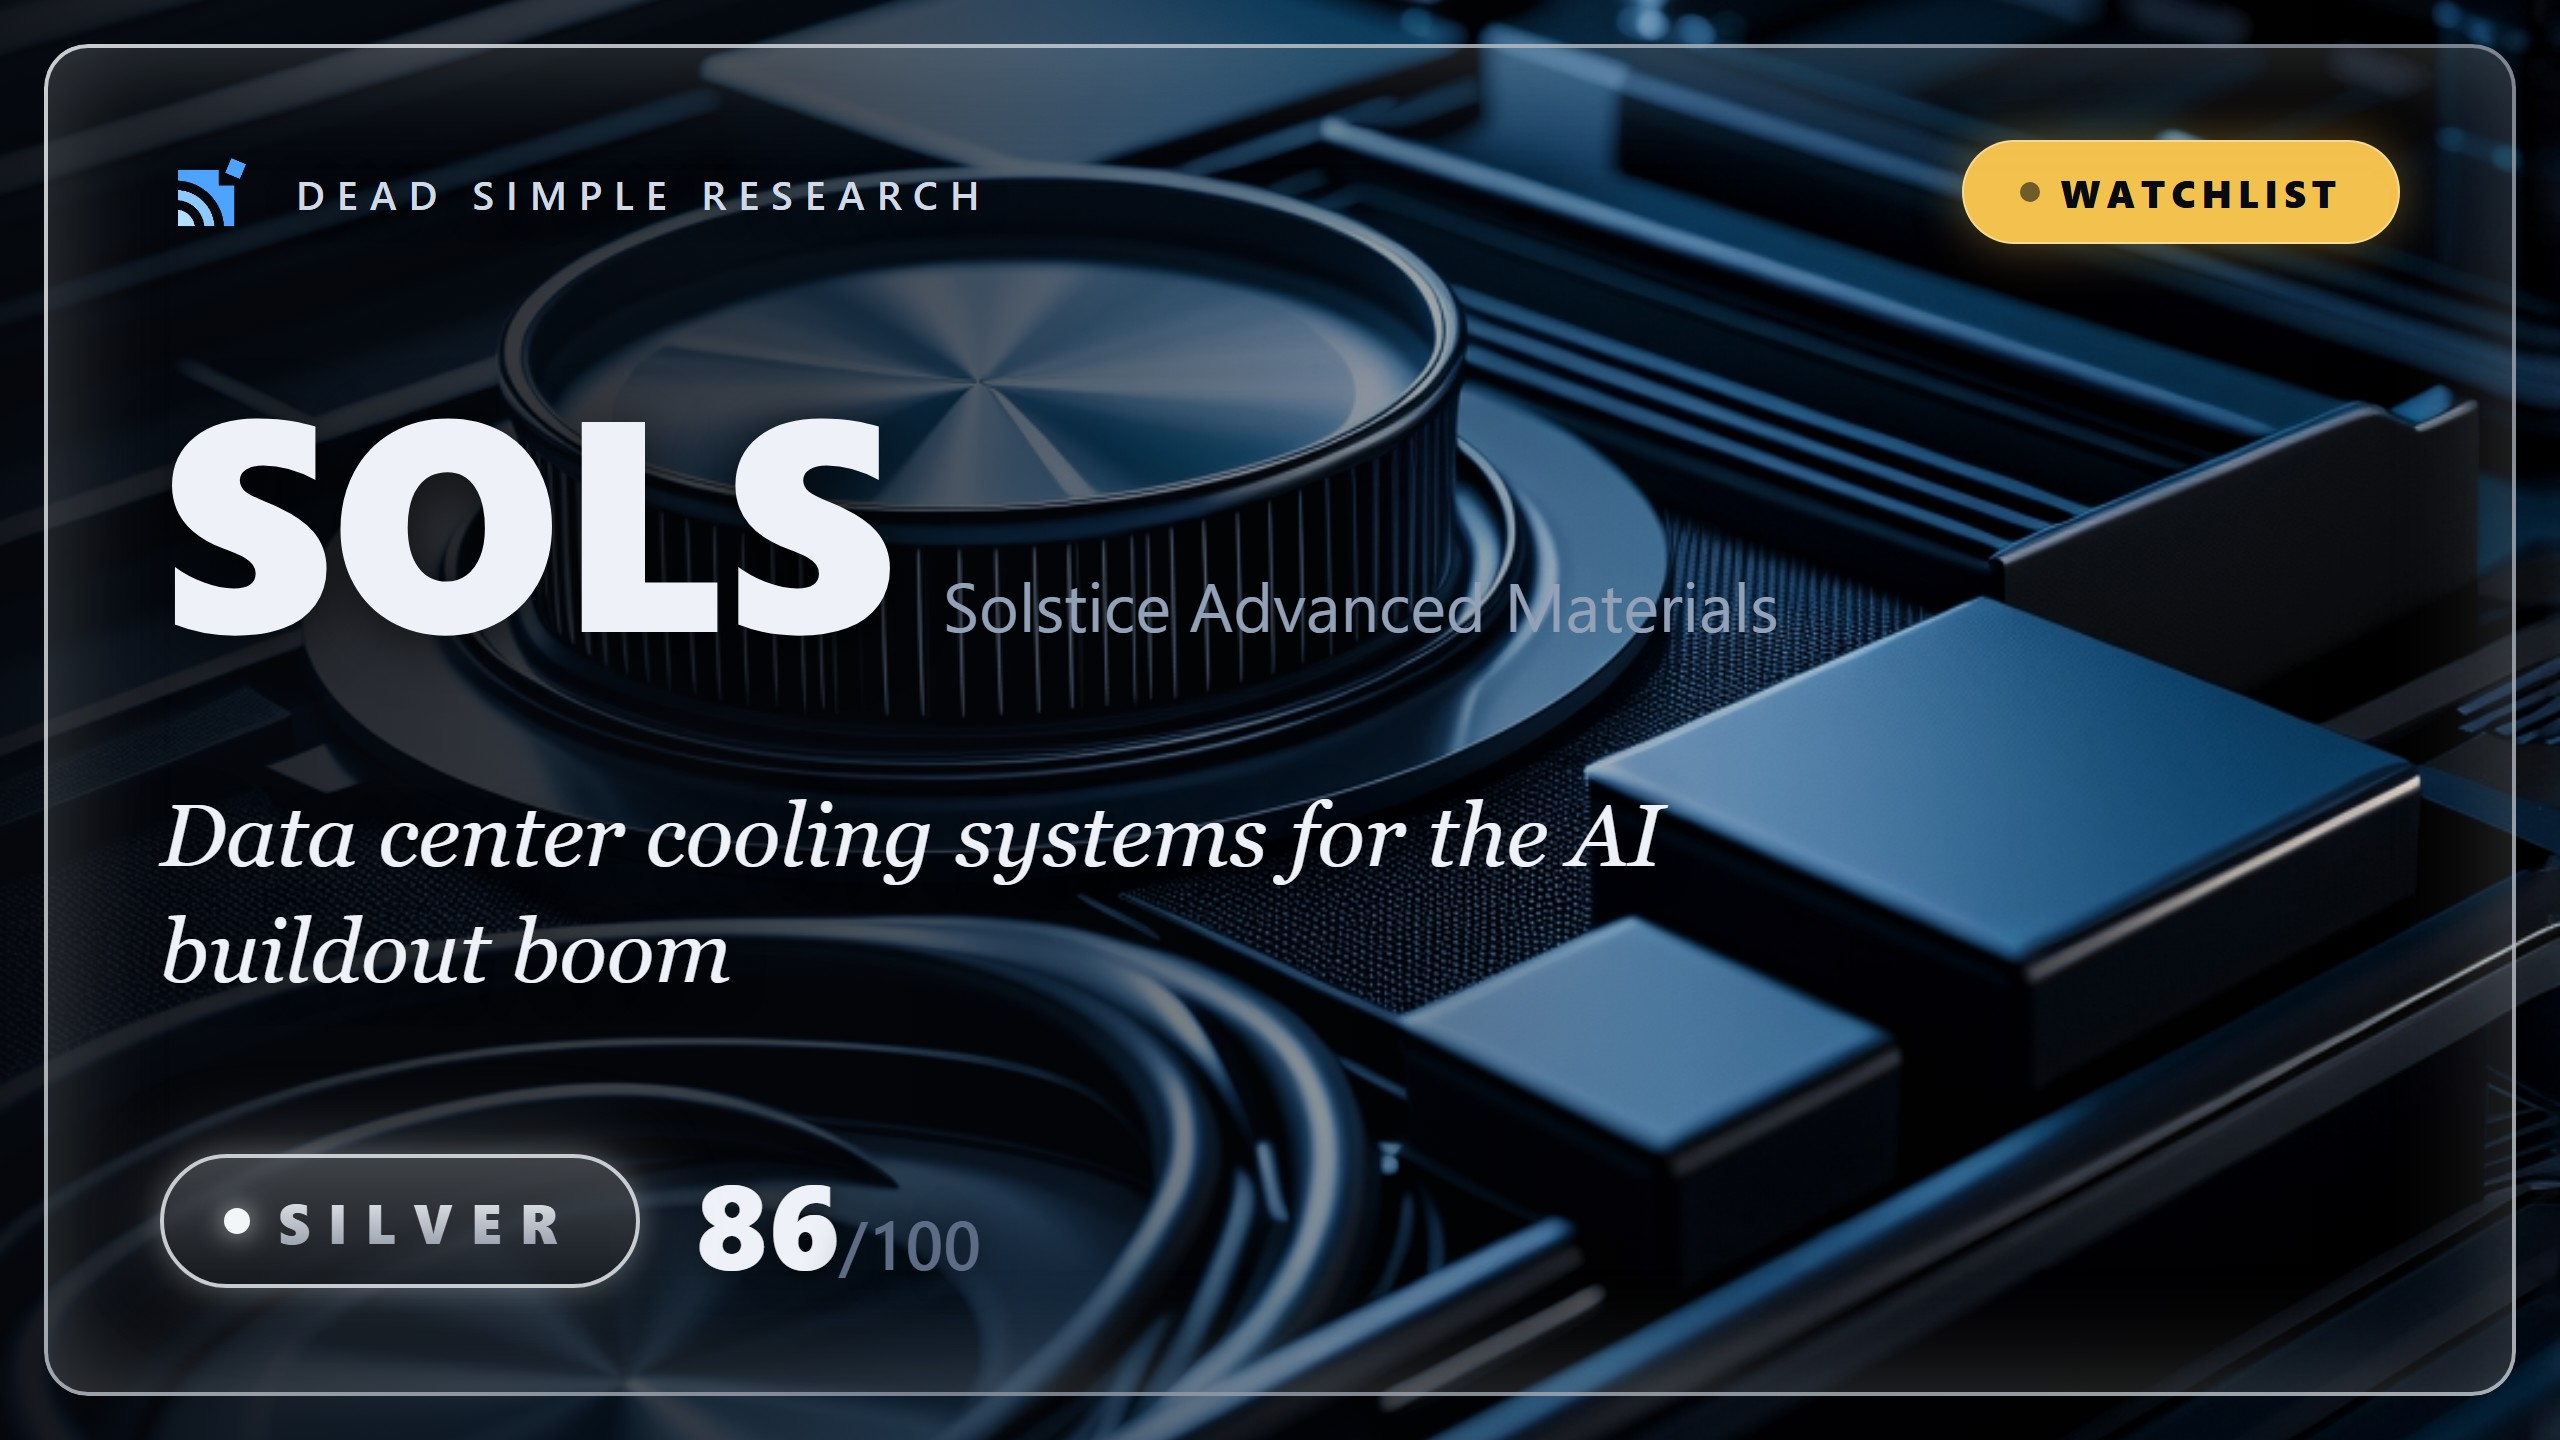
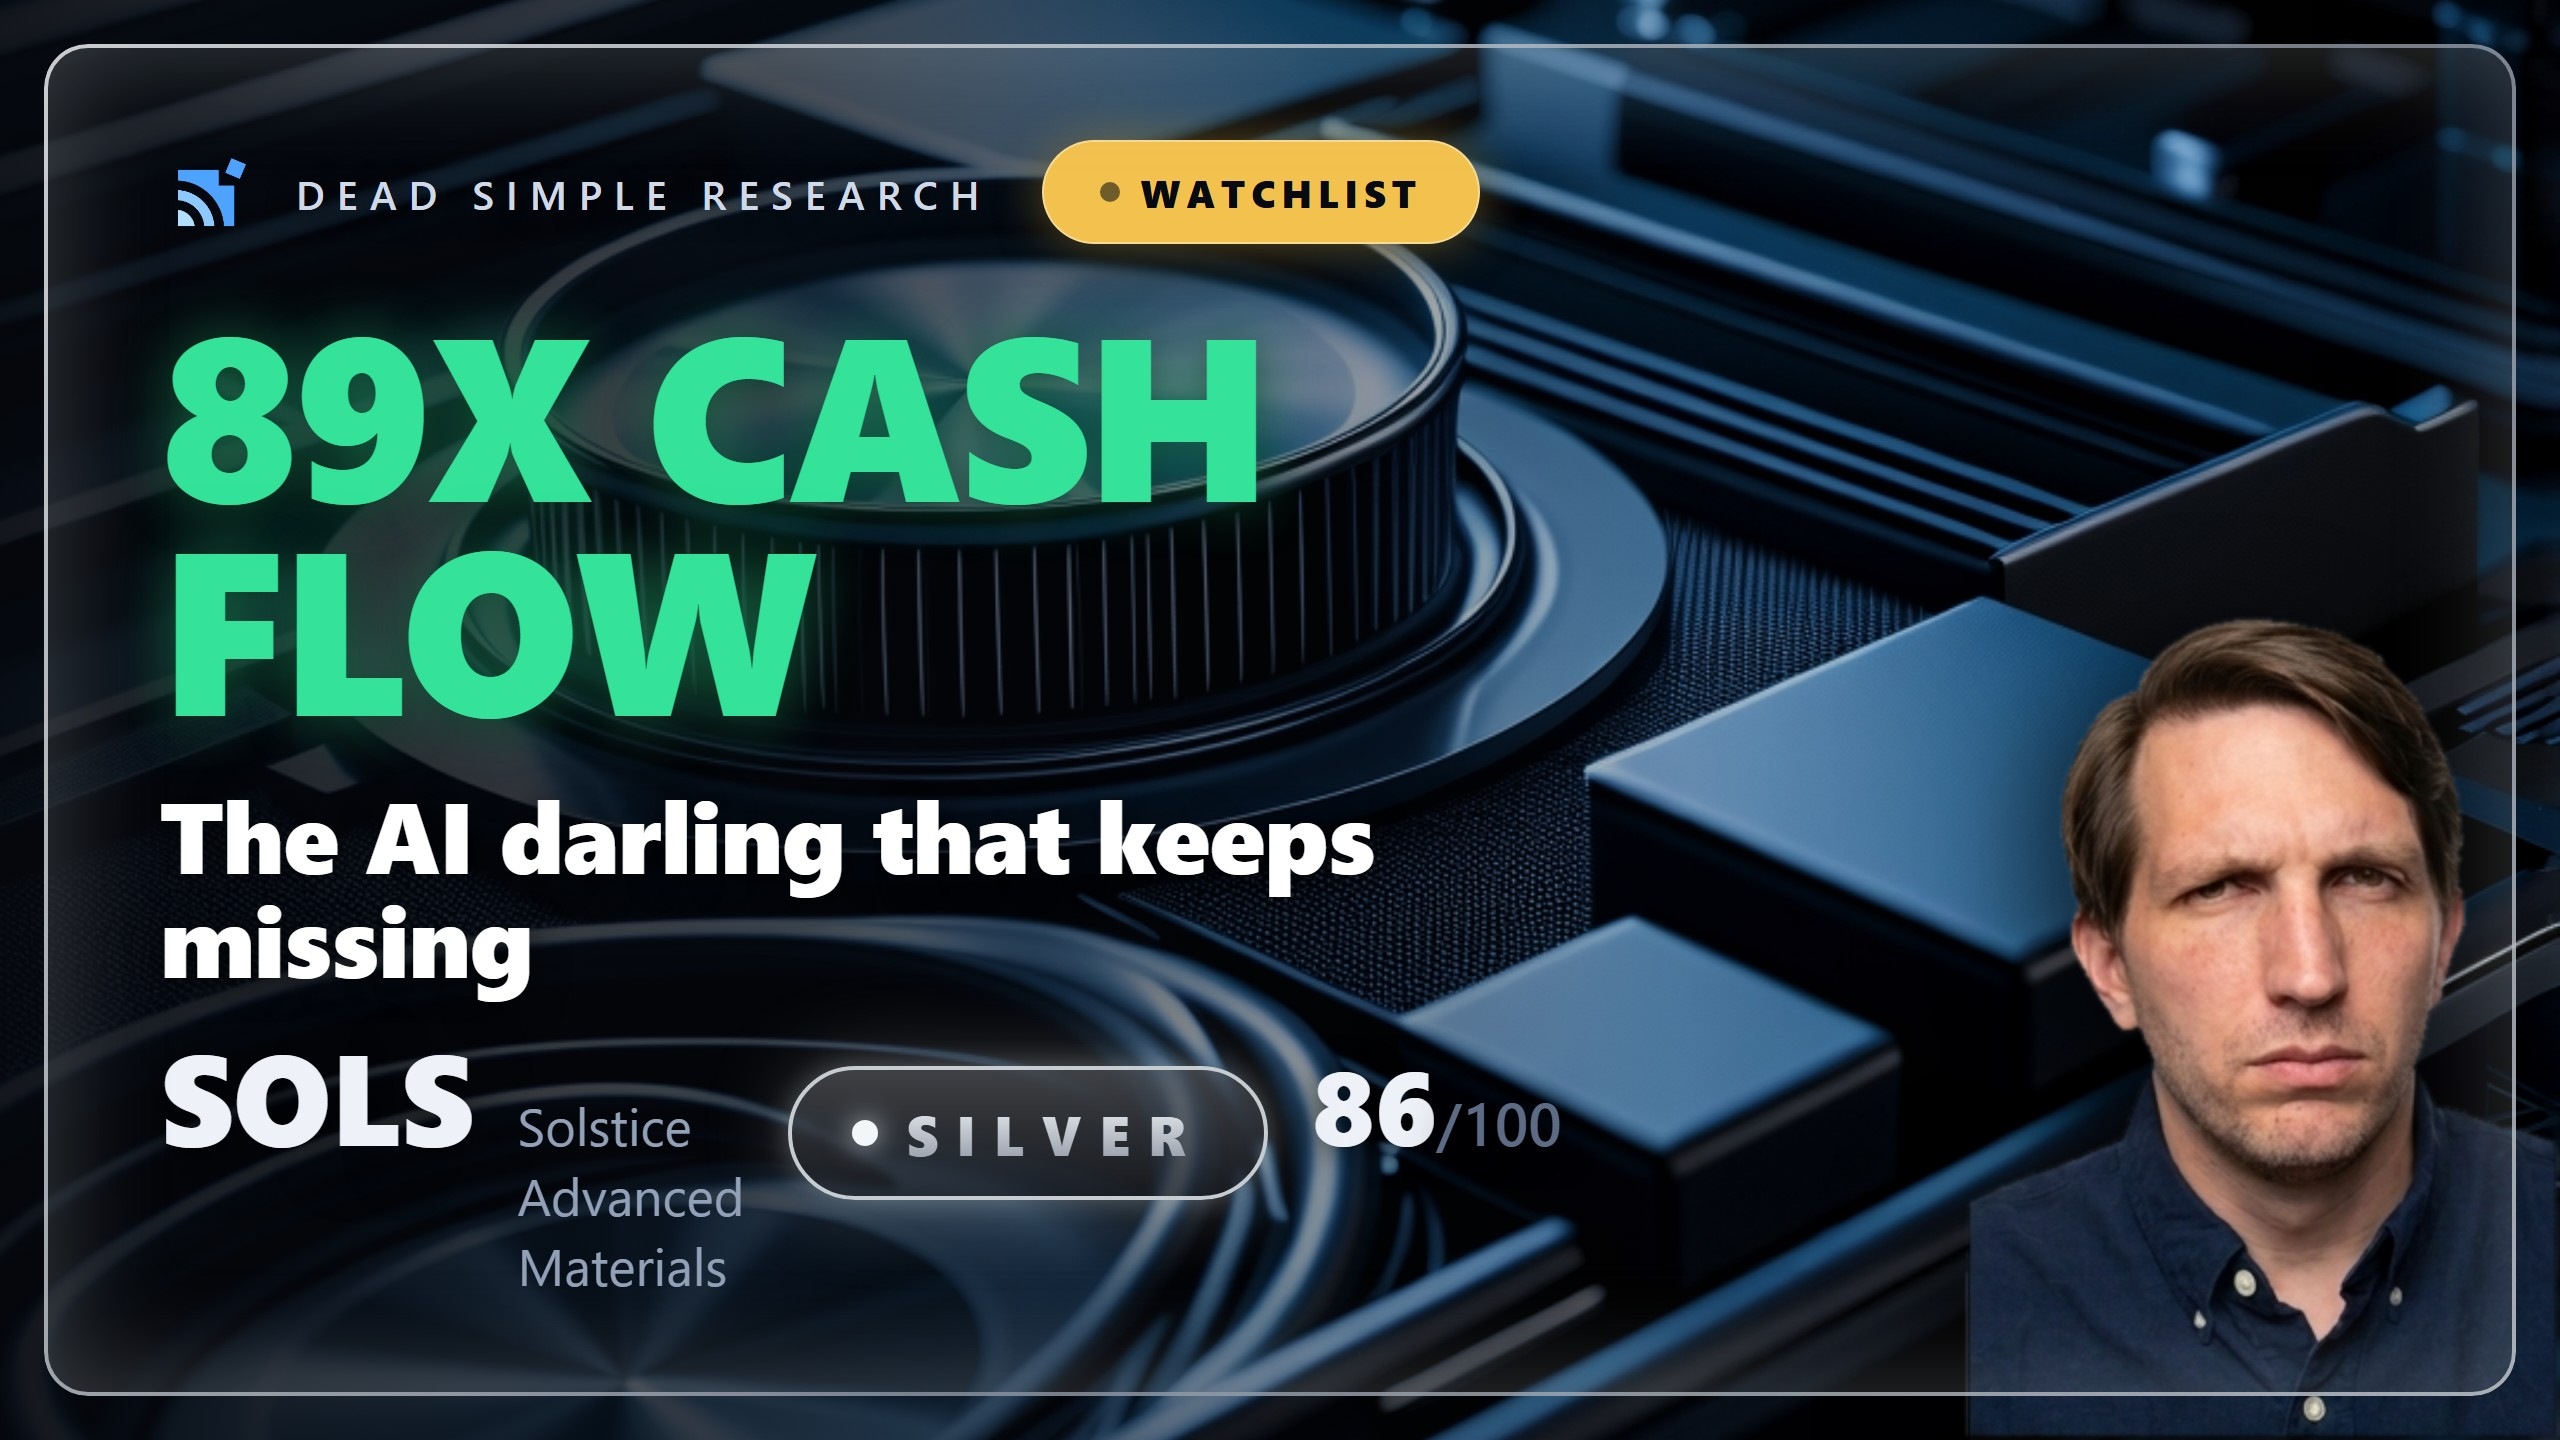
Publish SOLS OPEN

diff --git a/cards/SOLS/card.html b/cards/SOLS/card.html
@@ -378,7 +378,7 @@ html, body {
   color: var(--tier);
 }
 
-.section { margin-top: 26px; }
+.section { margin-top: 34px; }
 .section .label {
   font-size: 18px;
   letter-spacing: 0.26em;
@@ -392,26 +392,15 @@ html, body {
   line-height: 1.5;
   color: var(--text);
 }
-/* Cap the thesis at six lines so a long blurb (esp. the owner-voice rewrite on
-   Open/Closed cards) can never push the DCF + performance ledger off the face. */
-.section .body.thesis {
-  font-family: var(--serif);
-  display: -webkit-box;
-  -webkit-box-orient: vertical;
-  -webkit-line-clamp: 6;
-  line-clamp: 6;
-  overflow: hidden;
-}
+.section .body.thesis { font-family: var(--serif); }
 
-/* Dead Simple Scorecard (back) — seven category bars + the headline total.
-   Tuned dense so all seven rows + the DCF block + the performance ledger still
-   fit the fixed 1080x1512 face without clipping. */
-.scorecard { margin-top: 20px; }
+/* Dead Simple Scorecard (back) — seven category bars + the headline total. */
+.scorecard { margin-top: 30px; }
 .sc-head {
   display: flex;
   align-items: baseline;
   justify-content: space-between;
-  margin-bottom: 10px;
+  margin-bottom: 16px;
 }
 .sc-title {
   font-size: 18px;
@@ -427,23 +416,23 @@ html, body {
   color: var(--muted);
   font-variant-numeric: tabular-nums;
 }
-.sc-rows { display: flex; flex-direction: column; gap: 8px; }
-.sc-row { display: flex; flex-direction: column; gap: 3px; }
+.sc-rows { display: flex; flex-direction: column; gap: 13px; }
+.sc-row { display: flex; flex-direction: column; gap: 5px; }
 .sc-top {
   display: flex;
   align-items: baseline;
   justify-content: space-between;
 }
-.sc-label { font-size: 19px; font-weight: 600; color: var(--text); }
+.sc-label { font-size: 22px; font-weight: 600; color: var(--text); }
 .sc-score {
-  font-size: 17px;
+  font-size: 19px;
   font-weight: 700;
   color: var(--tier);
   font-variant-numeric: tabular-nums;
 }
 .sc-bar {
   position: relative;
-  height: 6px;
+  height: 7px;
   border-radius: 999px;
   background: var(--hairline);
   overflow: hidden;
@@ -455,17 +444,17 @@ html, body {
   background: linear-gradient(90deg, var(--tier-deep), var(--tier));
   box-shadow: 0 0 12px var(--tier-glow);
 }
-.sc-note { font-size: 13px; line-height: 1.25; color: var(--muted); }
+.sc-note { font-size: 15px; line-height: 1.3; color: var(--muted); }
 .sc-total {
-  margin-top: 12px;
-  padding-top: 12px;
+  margin-top: 20px;
+  padding-top: 18px;
   border-top: 1px solid var(--hairline);
   display: flex;
   align-items: center;
   justify-content: space-between;
   gap: 20px;
 }
-.sc-total-text { display: flex; flex-direction: column; gap: 4px; }
+.sc-total-text { display: flex; flex-direction: column; gap: 5px; }
 .sc-total-text .k {
   font-size: 16px;
   letter-spacing: 0.2em;
@@ -481,13 +470,13 @@ html, body {
   white-space: nowrap;
 }
 .sc-total-score .v {
-  font-size: 42px;
+  font-size: 50px;
   font-weight: 800;
   color: #fff;
   line-height: 1;
   font-variant-numeric: tabular-nums;
 }
-.sc-total-score .out { font-size: 22px; color: var(--muted); font-weight: 600; }
+.sc-total-score .out { font-size: 24px; color: var(--muted); font-weight: 600; }
 .sc-total-score .dot {
   width: 11px; height: 11px; border-radius: 50%;
   background: var(--tier-soft);
@@ -505,8 +494,8 @@ html, body {
 
 /* DCF block on the back */
 .dcf {
-  margin-top: 22px;
-  padding: 24px 34px;
+  margin-top: 38px;
+  padding: 30px 34px;
   border: 1px solid var(--hairline);
   border-radius: 18px;
   background: linear-gradient(160deg, var(--panel-2), var(--panel));
@@ -516,7 +505,7 @@ html, body {
   letter-spacing: 0.18em;
   text-transform: uppercase;
   color: var(--muted);
-  margin-bottom: 16px;
+  margin-bottom: 20px;
   display: flex;
   justify-content: space-between;
   align-items: center;
@@ -530,13 +519,13 @@ html, body {
   border: 1px solid var(--hairline-2);
   color: var(--muted);
 }
-.dcf-rows { display: flex; flex-direction: column; gap: 12px; }
+.dcf-rows { display: flex; flex-direction: column; gap: 16px; }
 .dcf-row {
   display: grid;
   grid-template-columns: 16px 1fr auto;
   align-items: center;
   gap: 18px;
-  font-size: 32px;
+  font-size: 34px;
   font-variant-numeric: tabular-nums;
 }
 .dcf-row .dot { width: 18px; height: 18px; border-radius: 50%; }
@@ -553,8 +542,8 @@ html, body {
 
 /* Performance ledger (the living record) */
 .ledger {
-  margin-top: 22px;
-  padding-top: 18px;
+  margin-top: 32px;
+  padding-top: 26px;
   border-top: 1px solid var(--hairline);
   display: grid;
   grid-template-columns: repeat(4, 1fr);
@@ -578,7 +567,7 @@ html, body {
 
 .back-footer {
   margin-top: auto;
-  padding-top: 18px;
+  padding-top: 26px;
   display: flex;
   align-items: center;
   justify-content: space-between;
@@ -695,73 +684,27 @@ html, body {
 .header-img .hero-bg img { filter: grayscale(1) contrast(1.06) brightness(0.88); }
 .thumb .hero-bg.gen img,
 .header-img .hero-bg.gen img { filter: grayscale(0.2) contrast(1.05) brightness(0.92); }
-/* The host cutout sits bottom-right and bleeds to the frame edge. */
-.thumb .thumb-face {
-  position: absolute;
-  right: 0;
-  bottom: 0;
-  max-height: 94%;
-  max-width: 50%;
-  width: auto;
-  height: auto;
-  object-fit: contain;
-  object-position: bottom right;
-  z-index: 1;
-  filter: drop-shadow(-16px 6px 26px rgba(0,0,0,0.55));
-}
-
-/* Text column. Sits above the hero + face; narrows when a face is present. */
-.thumb .thumb-stack {
-  position: relative;
-  z-index: 1;
-  height: 100%;
-  display: flex;
-  flex-direction: column;
-  justify-content: space-between;
-  max-width: 980px;
-}
-.thumb.has-face .thumb-stack { max-width: 660px; }
-
 .thumb-top { display: flex; align-items: center; justify-content: space-between; z-index: 1; }
+.thumb .ticker-row { display: flex; align-items: baseline; gap: 24px; z-index: 1; }
+.thumb .t-sym { font-size: 150px; font-weight: 800; line-height: 0.9; }
+.thumb .t-co  { font-size: 34px; color: var(--muted); }
+.thumb .t-line {
+  font-family: var(--serif);
+  font-style: italic;
+  font-size: 44px;
+  line-height: 1.3;
+  max-width: 860px;
+  z-index: 1;
+}
 .thumb .status { font-size: 19px; padding: 12px 28px; }
-
-/* The hook: one jarring metric, the loudest thing on the card. */
-.thumb .thumb-hook {
-  font-size: 132px;
-  font-weight: 800;
-  line-height: 0.92;
-  letter-spacing: -0.02em;
-  text-transform: uppercase;
-  color: #34e29a;
-  text-shadow: 0 0 32px rgba(52,226,154,0.45), 0 4px 22px rgba(0,0,0,0.7);
-  margin: 6px 0;
-}
-.thumb.has-face .thumb-hook { font-size: 116px; }
-
-/* The counter-narrative headline, heavy and high-contrast. */
-.thumb .thumb-counter {
-  font-size: 56px;
-  font-weight: 800;
-  line-height: 1.04;
-  letter-spacing: -0.01em;
-  color: #ffffff;
-  text-shadow: 0 2px 18px rgba(0,0,0,0.78);
-}
-.thumb.has-face .thumb-counter { font-size: 50px; }
-
-/* Supporting marks: ticker, company, tier, score — de-emphasized. */
-.thumb .thumb-foot { display: flex; align-items: baseline; gap: 22px; z-index: 1; }
-.thumb .t-sym {
-  font-size: 64px; font-weight: 800; line-height: 0.9;
-  text-shadow: 0 4px 30px rgba(0,0,0,0.7);
-}
-.thumb .t-co { font-size: 26px; color: var(--muted); }
-.thumb .thumb-foot .tier-badge { margin-left: auto; }
+.thumb .t-sym { text-shadow: 0 4px 30px rgba(0,0,0,0.7); }
+.thumb .t-line { text-shadow: 0 2px 18px rgba(0,0,0,0.7); }
+.thumb .t-foot { display: flex; align-items: center; gap: 28px; z-index: 1; }
 .thumb .t-score {
-  font-size: 52px; font-weight: 800; font-variant-numeric: tabular-nums;
+  font-size: 60px; font-weight: 800; font-variant-numeric: tabular-nums;
   text-shadow: 0 2px 18px rgba(0,0,0,0.7);
 }
-.thumb .t-score .out { color: var(--faint); font-size: 30px; font-weight: 600; }
+.thumb .t-score .out { color: var(--faint); font-size: 34px; font-weight: 600; }
 
 /* --------------------------------------------------------------------------- */
 /* SUBSTACK HEADER — 1200 x 600                                                 */
@@ -1000,9 +943,9 @@ html, body {
 
     <div class="ledger">
       <div class="cell"><span class="k">Watchlist Added</span><span class="v">Jun 09, 2026</span></div>
-      <div class="cell"><span class="k">Current Return</span><span class="v pos">+7.4%</span></div>
-      <div class="cell"><span class="k">S&amp;P Return</span><span class="v pos">+2.9%</span></div>
-      <div class="cell"><span class="k">Alpha</span><span class="v pos">+4.4%</span></div>
+      <div class="cell"><span class="k">Current Return</span><span class="v neg">-2.4%</span></div>
+      <div class="cell"><span class="k">S&amp;P Return</span><span class="v neg">-1.2%</span></div>
+      <div class="cell"><span class="k">Alpha</span><span class="v neg">-1.2%</span></div>
     </div>
 
     <div class="back-footer">
